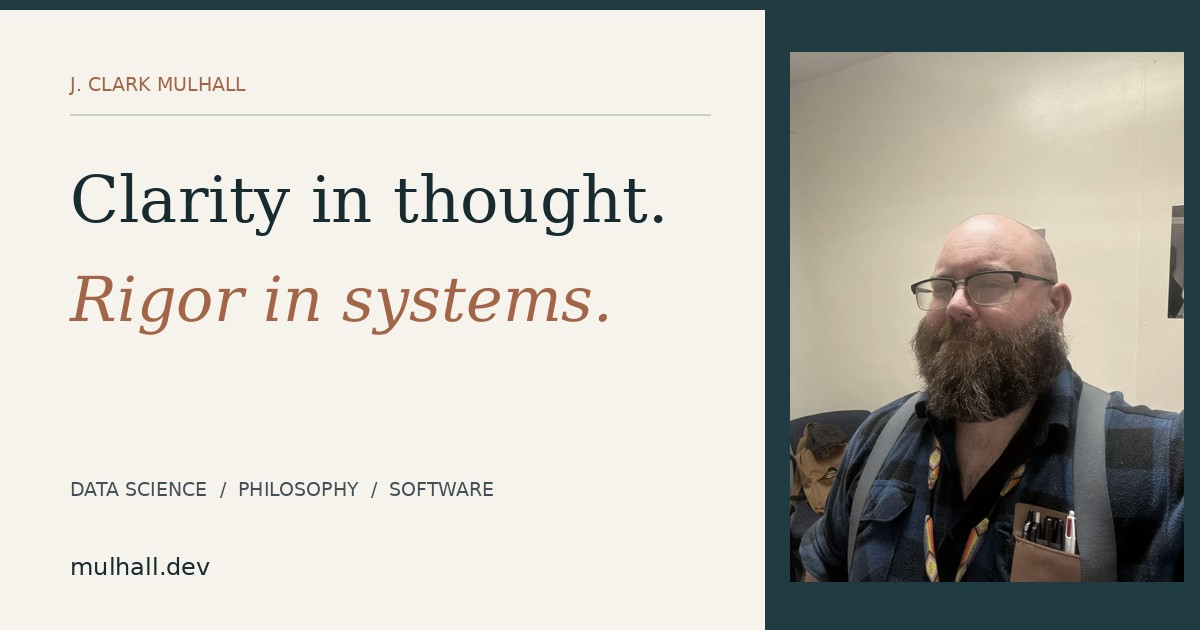
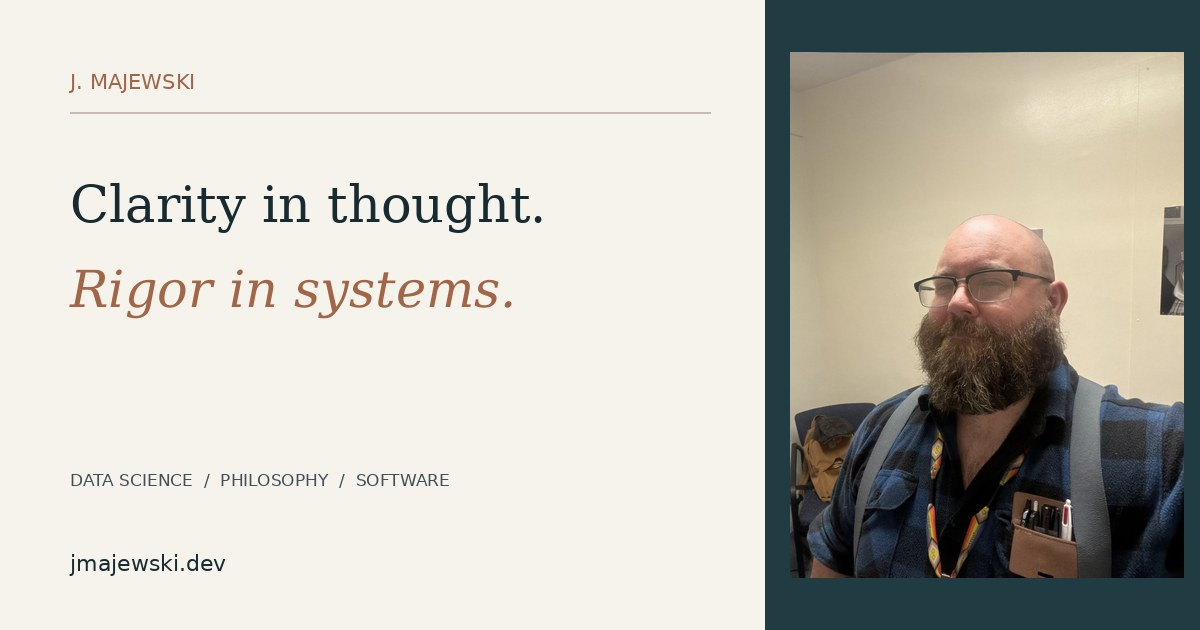
JM branding and philosophical quotes

diff --git a/index.html b/index.html
@@ -4,10 +4,10 @@
   <meta charset="utf-8">
   <meta name="viewport" content="width=device-width, initial-scale=1">
   <meta name="theme-color" content="#f6f3ed">
-  <meta name="description" content="John (Vanya) Majewski is a data scientist working in healthcare IT, building rigorous data systems, analytics, and data-intensive applications. Background in philosophy, logic, and data science.">
-  <meta name="author" content="John Majewski">
+  <meta name="description" content="J. Majewski is a data scientist working in healthcare IT, building rigorous data systems, analytics, and data-intensive applications. Background in philosophy, logic, and data science.">
+  <meta name="author" content="J. Majewski">
   <meta property="og:type" content="website">
-  <meta property="og:title" content="John Majewski — Data Science, Philosophy & Systems">
+  <meta property="og:title" content="J. Majewski — Data Science, Philosophy & Systems">
   <meta property="og:description" content="Thoughtful data systems for complex questions. Healthcare IT, data science, software, and research.">
   <meta property="og:url" content="https://jmajewski.dev/">
   <meta property="og:image" content="https://jmajewski.dev/assets/social-preview.jpg">
@@ -19,9 +19,9 @@
   <link href="https://fonts.googleapis.com/css2?family=DM+Sans:wght@400;500;600;700&family=IBM+Plex+Mono:wght@400;500;600&family=Playfair+Display:ital,wght@0,400;0,500;0,600;1,400;1,500&display=swap" rel="stylesheet">
   <link rel="stylesheet" href="assets/styles.css">
   <script src="assets/main.js" defer></script>
-  <title>J. Clark Mulhall — Data Science, Philosophy & Systems</title>
+  <title>J. Majewski — Data Science, Philosophy & Systems</title>
   <script type="application/ld+json">
-    {"@context":"https://schema.org","@type":"Person","name":"John (Vanya) Majewski","url":"https://jmajewski.dev/","jobTitle":"Data Scientist","description":"Data scientist in healthcare IT with academic background in philosophy and data science. Consultant developing data-intensive applications and systems.","knowsAbout":["Data Science","Healthcare IT","Data Engineering","German Idealism","Martin Heidegger","Formal Logic","Software Development"]}
+    {"@context":"https://schema.org","@type":"Person","name":"J. Majewski","url":"https://jmajewski.dev/","jobTitle":"Data Scientist","description":"Data scientist in healthcare IT with academic background in philosophy and data science. Consultant developing data-intensive applications and systems.","knowsAbout":["Data Science","Healthcare IT","Data Engineering","German Idealism","Martin Heidegger","Formal Logic","Software Development"]}
   </script>
 </head>
 <body>
@@ -29,9 +29,9 @@
   <div class="top-rule" aria-hidden="true"></div>
   <header class="site-header" id="top">
     <div class="container header-inner">
-      <a class="wordmark" href="#top" aria-label="John Majewski — back to top">
-        <span class="wordmark-mark">J<span class="wordmark-dot">.</span>C<span class="wordmark-dot">.</span>M<span class="wordmark-bar">/</span></span>
-        <span class="wordmark-type">JOHN (VANYA) MAJEWSKI <small>DATA SCIENCE &amp; SYSTEMS</small></span>
+      <a class="wordmark" href="#top" aria-label="J. Majewski — back to top">
+        <span class="wordmark-mark">J<span class="wordmark-dot">.</span>M<span class="wordmark-bar">/</span></span>
+        <span class="wordmark-type">J. MAJEWSKI <small>DATA SCIENCE &amp; SYSTEMS</small></span>
       </a>
       <button class="menu-toggle" type="button" aria-label="Open navigation" aria-expanded="false" aria-controls="site-nav">
         <span></span><span></span>
@@ -53,7 +53,7 @@
         <div class="hero-content">
           <div class="eyebrow hero-eyebrow"><span class="eyebrow-rule"></span> DATA SCIENCE <span class="dot-separator">·</span> PHILOSOPHY <span class="dot-separator">·</span> SOFTWARE</div>
           <h1 id="hero-heading">Clarity in thought.<br><em>Rigor in systems.</em></h1>
-          <p class="hero-intro">I'm <strong>John Majewski</strong>—a data scientist in healthcare IT with a foundation in philosophy, logic, and the practical engineering of complex information systems.</p>
+          <p class="hero-intro">I'm <strong>J. Majewski</strong>—a data scientist in healthcare IT with a foundation in philosophy, logic, and the practical engineering of complex information systems.</p>
           <p class="hero-support">I build data-intensive applications, turn fragmented information into usable evidence, and help organizations ask better technical questions.</p>
           <div class="hero-actions">
             <a class="btn btn-dark" href="#work">Explore my work <span aria-hidden="true">↗</span></a>
@@ -64,9 +64,9 @@
         </div>
         <div class="hero-art">
           <div class="portrait-frame">
-            <img class="hero-portrait" src="assets/clark-portrait.webp" alt="Portrait of John Majewski" width="880" height="1100" fetchpriority="high">
+            <img class="hero-portrait" src="assets/portrait.webp" alt="Portrait of J. Majewski" width="880" height="1100" fetchpriority="high">
           </div>
-          <div class="portrait-caption"><span>FIG. 01 — PORTRAIT</span><span>JOHN MAJEWSKI</span></div>
+          <div class="portrait-caption"><span>FIG. 01 — PORTRAIT</span><span>J. MAJEWSKI</span></div>
           <div class="hero-art-accent" aria-hidden="true">01<span>/</span>04</div>
         </div>
       </div>
@@ -91,6 +91,7 @@
         </div>
       </div>
     </section>
+    <aside class="section-epigraph epigraph-approach" aria-label="Quotation from G. W. F. Hegel"><div class="container epigraph-inner"><span class="epigraph-ornament" aria-hidden="true">“</span><blockquote><p>The true is the whole.</p><footer>— G. W. F. Hegel <span class="epigraph-source">· <a href="https://en.mouseia.org/texts/hegel-phenomenology/chapter-1" target="_blank" rel="noopener noreferrer">Phenomenology of Spirit, Preface, §20 ↗</a></span></footer></blockquote></div></aside>
 
     <section class="section work-section" id="work" aria-labelledby="work-title">
       <div class="container">
@@ -107,6 +108,7 @@
         <p class="work-footnote"><span aria-hidden="true">※</span> Work in healthcare and enterprise systems is described by capability rather than through confidential client data.</p>
       </div>
     </section>
+    <aside class="section-epigraph epigraph-work" aria-label="Quotation from Baruch Spinoza"><div class="container epigraph-inner"><span class="epigraph-ornament" aria-hidden="true">“</span><blockquote><p>The order and connection of ideas is the same as the order and connection of things.</p><footer>— Baruch Spinoza <span class="epigraph-source">· <a href="https://homepages.uc.edu/~martinj/Spinoza_%26_Hobbes/English/Spinoza%20-%20Complete%20Works%20%282002%29.pdf" target="_blank" rel="noopener noreferrer">Ethics, Part II, Proposition 7 ↗</a></span></footer></blockquote></div></aside>
 
     <section class="section research-section" id="research" aria-labelledby="research-title">
       <div class="container research-layout">
@@ -123,6 +125,7 @@
         </div>
       </div>
     </section>
+    <aside class="section-epigraph epigraph-research" aria-label="Quotation from Martin Heidegger"><div class="container epigraph-inner"><span class="epigraph-ornament" aria-hidden="true">“</span><blockquote><p>Language is the house of being.</p><footer>— Martin Heidegger <span class="epigraph-source">· <a href="https://www.cambridge.org/core/books/abs/pathmarks/letter-on-humanism-1946/389DCBF26D507AE92A6FE12EE34036E3" target="_blank" rel="noopener noreferrer">Letter on “Humanism” (1946) ↗</a></span></footer></blockquote></div></aside>
 
     <section class="section consulting-section" id="consulting" aria-labelledby="consulting-title">
       <div class="container consulting-layout"><div class="consulting-heading"><span class="section-number">IV. / CONSULTING</span><h2 id="consulting-title" class="section-heading">When the problem<br>is <em>complicated.</em></h2><p>I partner on technical projects that need disciplined analysis, sound engineering, and clear communication from concept to implementation.</p><a class="btn btn-light" href="mailto:vanya@jmajewski.dev?subject=Consulting%20inquiry%20via%20jmajewski.dev">Start a conversation <span aria-hidden="true">↗</span></a></div>
@@ -130,10 +133,11 @@
     </section>
 
     <section class="section about-section" id="about" aria-labelledby="about-title"><div class="container about-layout"><div class="about-heading"><span class="section-number">V. / BACKGROUND</span><h2 id="about-title" class="section-heading">Two disciplines.<br><em>One practice.</em></h2></div><div class="about-copy"><p>I earned a <strong>B.A. in Philosophy, with distinction, from the University of Rochester (2015)</strong>, with particular interests in German Idealism, Martin Heidegger, and logic. I subsequently earned an <strong>M.S. in Data Science from National University (2023)</strong>.</p><p>Professionally, I work as a <strong>Data Scientist in healthcare IT</strong>, bringing together software development, data engineering, and analytical methods to solve operationally consequential problems.</p><p>My professional experience includes data science and healthcare information systems at <strong>Brattleboro Retreat, Brattleboro Memorial Hospital, and Tufts Medicine</strong>, as well as teaching as an <strong>adjunct faculty member at Vermont State University</strong>. I develop data-intensive applications and offer consulting for organizations that need rigorous thinking translated into working technology.</p><a href="#contact" class="text-link">Get in touch <span aria-hidden="true">→</span></a></div></div></section>
+    <aside class="section-epigraph epigraph-about" aria-label="Quotation from St. Augustine of Hippo"><div class="container epigraph-inner"><span class="epigraph-ornament" aria-hidden="true">“</span><blockquote><p>Our heart is restless, until it repose in Thee.</p><footer>— St. Augustine of Hippo <span class="epigraph-source">· <a href="https://en.wikisource.org/wiki/Nicene_and_Post-Nicene_Fathers:_Series_I/Volume_I/Confessions/Book_I/Chapter_1" target="_blank" rel="noopener noreferrer">Confessions, Book I, Chapter 1 (Pusey translation) ↗</a></span></footer></blockquote></div></aside>
 
     <section class="contact-section" id="contact" aria-labelledby="contact-title"><div class="container contact-inner"><div><span class="section-number">VI. / CONTACT</span><h2 id="contact-title">Have a question<br>worth <em>working through?</em></h2></div><div class="contact-aside"><p>Consulting engagements, technical collaborations, and thoughtful conversations about research or systems are welcome.</p><a class="email-link" href="mailto:vanya@jmajewski.dev?subject=Inquiry%20via%20jmajewski.dev">vanya@jmajewski.dev <span aria-hidden="true">↗</span></a><p class="contact-quiet">Based in Vermont · Working across disciplines</p></div></div></section>
   </main>
 
-  <footer class="site-footer"><div class="container footer-inner"><div><span class="footer-mark">JCM<span class="wordmark-dot">.</span></span><span class="footer-caption">© <span id="year">2026</span> J. Clark Mulhall. All rights reserved.</span></div><div class="footer-links"><a href="#top">Back to top ↑</a><a href="mailto:vanya@jmajewski.dev">Email</a></div></div></footer>
+  <footer class="site-footer"><div class="container footer-inner"><div><span class="footer-mark">JM<span class="wordmark-dot">.</span></span><span class="footer-caption">© <span id="year">2026</span> J. Majewski. All rights reserved.</span></div><div class="footer-links"><a href="#top">Back to top ↑</a><a href="mailto:vanya@jmajewski.dev">Email</a></div></div></footer>
 </body>
 </html>

diff --git a/assets/styles.css b/assets/styles.css
@@ -3,3 +3,18 @@
 @media(max-width:800px){.header-inner{height:83px}.wordmark-type{display:block}.menu-toggle{display:flex;flex-direction:column;justify-content:center;gap:7px;width:45px;height:45px;background:transparent;border:1px solid var(--line);align-items:center;z-index:2}.menu-toggle span{display:block;width:20px;height:1px;background:var(--ink);transition:transform .2s}.menu-toggle[aria-expanded=true] span:first-child{transform:translateY(4px) rotate(45deg)}.menu-toggle[aria-expanded=true] span:last-child{transform:translateY(-4px) rotate(-45deg)}.nav{display:none;position:absolute;left:0;right:0;top:83px;background:var(--paper);border-bottom:1px solid var(--line);padding:25px 30px 30px;flex-direction:column;align-items:stretch;gap:22px;font-size:15px}.nav.is-open{display:flex}.nav .nav-contact{margin:0;display:flex;justify-content:space-between}.hero{padding-top:70px}.hero-layout{grid-template-columns:1fr;gap:60px}.hero-content{max-width:650px}.hero h1{font-size:clamp(46px,8vw,74px)}.hero-art{width:min(100%,500px);justify-self:start}.hero-annotation{margin-top:48px}.discipline-strip{grid-template-columns:1fr;gap:20px}.discipline-strip>div{border-left:0;border-top:1px solid var(--line);padding:18px 0 0}.discipline-strip>div:first-child{border-top:0;padding-top:0}.two-col-heading,.research-layout,.about-layout{grid-template-columns:1fr;gap:40px}.section-side{max-width:220px}.approach-body{gap:26px}.work-grid{grid-template-columns:1fr 1fr}.work-card{min-height:390px}.research-left{display:none}.research-right .section-heading{margin-bottom:45px}.consulting-layout{grid-template-columns:1fr;gap:70px}.consulting-list{max-width:600px}.about-copy{padding-top:0;max-width:640px}.contact-inner{grid-template-columns:1fr;gap:45px}.contact-aside{max-width:480px}}
 @media(max-width:550px){.container{padding-left:23px;padding-right:23px}.header-inner{height:77px}.nav{top:77px}.wordmark{gap:12px}.wordmark-mark{font-size:26px}.wordmark-type{font-size:9px}.wordmark-type small{font-size:7px}.hero{padding-top:58px;padding-bottom:60px}.hero h1{font-size:clamp(39px,9.2vw,58px);line-height:1.21;white-space:normal;margin:29px 0 22px}.hero-intro{font-size:16px;line-height:1.75}.hero-support{font-size:13px}.hero-actions{align-items:flex-start;flex-direction:column;gap:27px}.hero-annotation{margin-top:39px;line-height:1.5}.eyebrow{font-size:8px;gap:6px}.eyebrow-rule{width:15px}.hero-art{max-width:100%}.hero-art-accent{display:none}.discipline-strip{padding-top:20px;padding-bottom:24px}.approach-section,.research-section,.about-section{padding-top:90px;padding-bottom:95px}.work-section{padding:90px 0 85px}.section-heading{font-size:clamp(37px,9vw,51px)}.approach-body{grid-template-columns:1fr;gap:19px;margin-top:32px}.section-heading-row{display:block}.section-heading-row>p{margin:26px 0 0}.work-grid{grid-template-columns:1fr}.work-card{min-height:365px}.research-topic{grid-template-columns:35px 1fr;gap:12px}.research-topic h3{font-size:21px}.research-note{grid-template-columns:1fr}.consulting-section{padding:93px 0 95px}.consulting-list>div{grid-template-columns:43px 1fr}.consulting-list p{font-size:23px}.contact-section{padding:85px 0}.contact-inner h2{font-size:clamp(38px,9vw,55px)}.email-link{font-size:23px}.footer-inner,.footer-inner>div:first-child{align-items:start;flex-direction:column;gap:15px}.footer-links{gap:24px}.contact-quiet{line-height:1.7}}
 @media(prefers-reduced-motion:reduce){html{scroll-behavior:auto}*,*:before,*:after{transition-duration:.01ms!important;animation-duration:.01ms!important}}
+
+/* Philosophical epigraphs: editorial pause between sections */
+.section-epigraph{background:var(--paper);border-top:1px solid var(--line);border-bottom:1px solid var(--line)}
+.epigraph-work{background:var(--paper-2)}
+.epigraph-research{background:var(--paper)}
+.epigraph-about{background:#e5e7df}
+.epigraph-inner{display:flex;align-items:flex-start;justify-content:center;gap:22px;padding-top:43px;padding-bottom:46px;max-width:970px}
+.epigraph-ornament{color:var(--accent);font:normal 73px/0.95 var(--serif);opacity:.72}
+.section-epigraph blockquote{margin:0;max-width:790px}
+.section-epigraph blockquote p{font:italic 400 clamp(19px,2.2vw,26px)/1.55 var(--serif);letter-spacing:-.015em;margin:0 0 14px;color:var(--ink)}
+.section-epigraph blockquote footer{font:500 10px/1.8 var(--mono);letter-spacing:.055em;color:var(--soft-ink)}
+.epigraph-source{color:var(--muted)}
+.epigraph-source a{text-decoration:underline;text-decoration-color:var(--line);text-underline-offset:3px}
+.epigraph-source a:hover{color:var(--accent)}
+@media(max-width:550px){.epigraph-inner{justify-content:flex-start;padding-top:32px;padding-bottom:34px;gap:12px}.epigraph-ornament{font-size:51px}.section-epigraph blockquote p{font-size:19px}.epigraph-source{display:block}}

diff --git a/README.md b/README.md
@@ -1,15 +1,15 @@
-# jmajewski.dev — John (Vanya) Majewski
+# jmajewski.dev — J. Majewski
 
-A typography-forward, academic/professional portfolio for J. Clark Mulhall. Static HTML/CSS/JavaScript; built to publish directly on **GitHub Pages**, without a build step, npm, or server.
+A typography-forward, academic/professional portfolio for J. Majewski. Static HTML/CSS/JavaScript; built to publish directly on **GitHub Pages**, without a build step, npm, or server.
 
 ## Contents
 
 - `index.html` — all on-page content, search engine metadata, and links
 - `assets/styles.css` — typography, colors, layout, and mobile styles
 - `assets/main.js` — mobile nav and automatic copyright year
-- `assets/clark-portrait.webp` — optimized portrait adapted from supplied office photo
+- `assets/portrait.webp` — optimized portrait adapted from supplied office photo
 - `assets/social-preview.jpg` — open graph/social sharing image
-- `assets/favicon.svg` — JCM favicon
+- `assets/favicon.svg` — JM favicon
 - `CNAME` — custom-domain declaration (`jmajewski.dev`)
 - `.nojekyll` — publishes this static site without Jekyll processing
 - `sitemap.xml` and `robots.txt` — basic search engine discovery
@@ -56,7 +56,7 @@ GitHub documentation:
 
 ## Before publishing: content review
 
-- The name **J. Clark Mulhall**, credentials, background, and subject expertise follow the project brief. Verify how you want your credentials displayed before publishing.
+- The name **J. Majewski**, credentials, background, and subject expertise follow the project brief. Verify how you want your credentials displayed before publishing.
 - Contact buttons use **vanya@jmajewski.dev**. Confirm the mailbox is active before publishing.
 - The portfolio deliberately does **not** identify an employer, patient information, confidential client systems, claim unpublished papers, or fabricate project impact metrics.
 - Optional: add links to a current CV, public GitHub code, professional profile, and published papers **only when you have confirmed destinations**.
